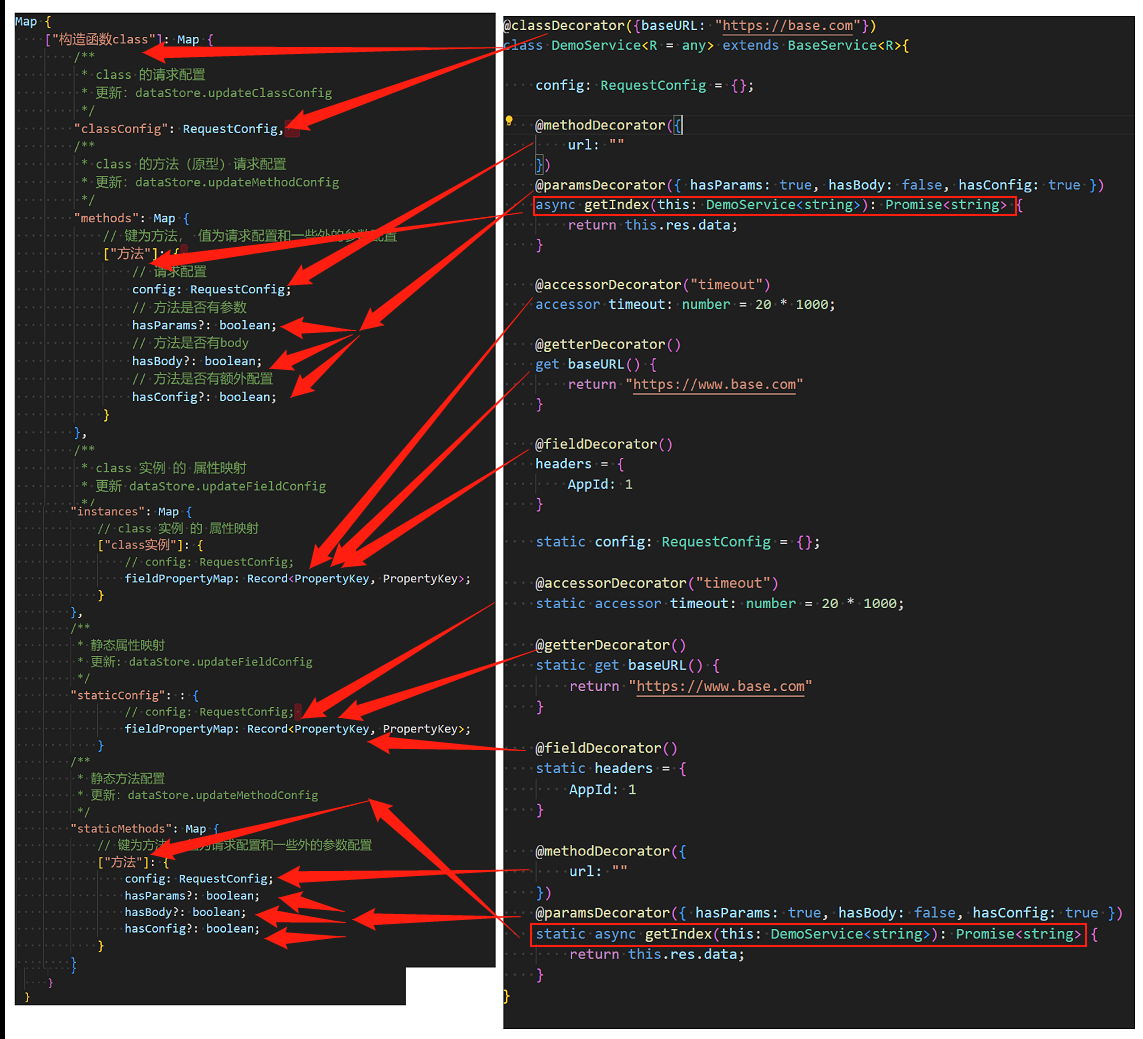
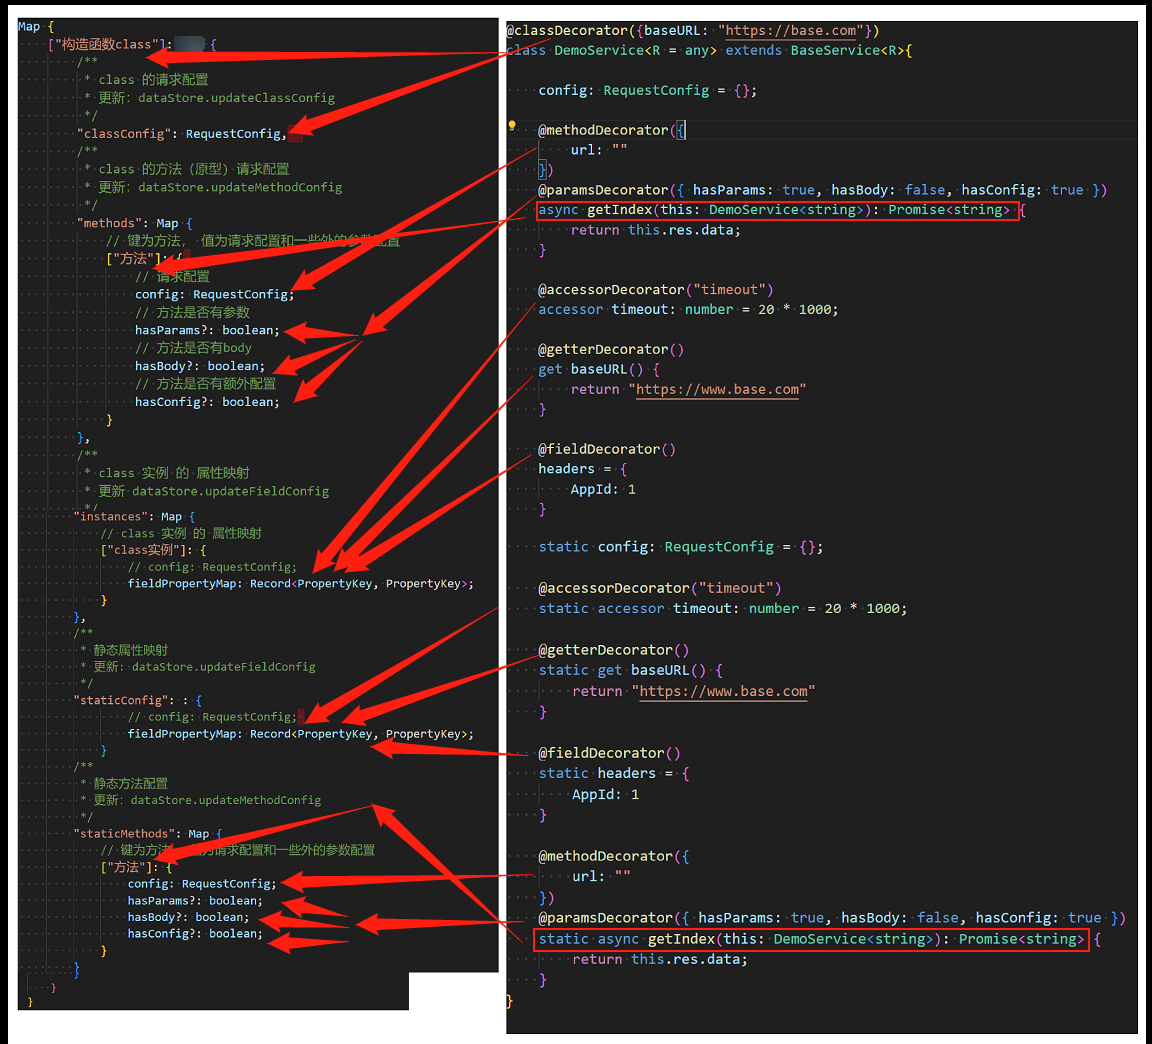
修改存储结构

Changed region(s): [[0.0, 0.0, 1.0, 1.0], [0.3368, 0.2772, 0.3675, 0.308]]

diff --git a/src/dataStore/index.ts b/src/dataStore/index.ts
@@ -1,15 +1,13 @@
-import { StorageMap, StorageMapValue } from "../types";
-import { Method, RequestConfig } from "../types";
+import { NOT_USE_BODY_METHODS } from "../const";
+import { merge } from "../lib/merge";
+import { Method, RequestConfig, StorageMap, StorageMapValue } from "../types";
 import {
     getProperty,
-    getOwnProperty,
     isAsyncFunction,
     isFunction,
-    isObject,
+    isObject
 } from "../util";
 import { hasPathParams, pathToUrl } from "../util/path";
-import { NOT_USE_BODY_METHODS, STORE_KEYS } from "../const";
-import { merge } from "../lib/merge";
 
 function shouldUseBody(method: Method) {
     if (method == null) {
@@ -44,7 +42,7 @@ export default class DataStore {
         // 方法上的config
         const methodConfig =
             ((isStatic ? rootConfig.staticMethods : rootConfig.methods) ||
-            new Map<Function, StorageMapValue.MethodConfigValue>()).get(method);
+                new Map<Function, StorageMapValue.MethodConfigValue>()).get(method) || {};
 
         // 实例或者class config 属性对应着的config
         const propertyConfig = getProperty(classOrInstance, "config", {}) || {};
@@ -230,15 +228,12 @@ export default class DataStore {
         config: Record<PropertyKey, PropertyKey>
     ) {
         const { storeMap } = this;
-        const instancesKey = STORE_KEYS.instances;
 
-        const val: StorageMapValue = storeMap.get(_class_) || new Map();
-        let instances: StorageMapValue.InstancesMap = val.get(
-            instancesKey
-        ) as StorageMapValue.InstancesMap;
+        const rootConfig: StorageMapValue | undefined = storeMap.get(_class_) || {};
+        let instances: StorageMapValue.InstancesMap | undefined = rootConfig.instances;
         if (!instances) {
-            instances = new Map();
-            val.set(instancesKey, instances);
+            instances = new Map<Object, StorageMapValue.CommonConfigValue>();
+            rootConfig.instances = instances;
         }
         let commonConfig: StorageMapValue.CommonConfigValue =
             instances.get(instance!) || {};
@@ -248,7 +243,7 @@ export default class DataStore {
             config,
         ]);
         instances.set(instance!, commonConfig);
-        storeMap.set(_class_, val);
+        storeMap.set(_class_, rootConfig);
     }
 
     /**
@@ -263,19 +258,17 @@ export default class DataStore {
         mapConfig: Record<PropertyKey, PropertyKey>
     ) {
         const { storeMap } = this;
-        const staticConfigKey = STORE_KEYS.staticConfig;
 
-        const val: StorageMapValue = storeMap.get(_class_) || new Map();
-        let commonConfig: StorageMapValue.CommonConfigValue =
-            (val.get(staticConfigKey) as StorageMapValue.CommonConfigValue) ||
+        const rootConfig: StorageMapValue = storeMap.get(_class_) || {};
+        let commonConfig: StorageMapValue.CommonConfigValue = rootConfig.staticConfig ||
             {};
 
         commonConfig.fieldPropertyMap = merge([
             commonConfig.fieldPropertyMap || {},
             mapConfig,
         ]);
-        val.set(staticConfigKey, commonConfig);
-        storeMap.set(_class_, val);
+        rootConfig.staticConfig = commonConfig;
+        storeMap.set(_class_, rootConfig);
     }
 
     /**
@@ -318,16 +311,13 @@ export default class DataStore {
         key: "methods" | "staticMethods"
     ) {
         const { storeMap } = this;
-        const val: StorageMapValue = storeMap.get(_class_) || new Map();
-        let methodsMapValue: StorageMapValue.MethodsMap = val.get(
-            key
-        ) as StorageMapValue.MethodsMap;
+        const val: StorageMapValue = storeMap.get(_class_) || {};
+        let methodsMapValue: StorageMapValue.MethodsMap | undefined = val[key];
         if (!methodsMapValue) {
             methodsMapValue = new Map();
-            val.set(key, methodsMapValue);
+            val[key] = methodsMapValue;
         }
-        let oldConfig: StorageMapValue.MethodConfigValue =
-            methodsMapValue.get(method) || {};
+        let oldConfig: StorageMapValue.MethodConfigValue = methodsMapValue.get(method) || {};
         oldConfig = merge([oldConfig, config]);
         methodsMapValue.set(method, oldConfig);
         storeMap.set(_class_, val);
@@ -340,8 +330,8 @@ export default class DataStore {
      */
     updateClassConfig(_class_: Function, config: StorageMapValue.ConfigValue) {
         const { storeMap } = this;
-        const val: StorageMapValue = storeMap.get(_class_) || new Map();
-        val.set(STORE_KEYS.classConfig, config);
+        const val: StorageMapValue = storeMap.get(_class_) || {};
+        val.classConfig = config;
         storeMap.set(_class_, val);
     }
 }

diff --git a/src/dataStore/statistics.ts b/src/dataStore/statistics.ts
@@ -28,9 +28,9 @@ const EMPTY_RESULT: StatisticsResult = {
 };
 
 export default class Statistics {
-    constructor(public storeMap: StorageMap) {}
+    constructor(public storeMap: StorageMap) { }
 
-    getStatistics (
+    getStatistics(
         classOrInstance: Function | Object | undefined | null = undefined
     ): StatisticsResult {
         if (isFunction(classOrInstance)) {
@@ -42,7 +42,7 @@ export default class Statistics {
             // @ts-ignore
             isFunction(classOrInstance.constructor)
         ) {
-             // @ts-ignore
+            // @ts-ignore
             return this.countSingleClass(classOrInstance.constructor);
         }
         if (classOrInstance === null || classOrInstance === undefined) {
@@ -76,19 +76,15 @@ export default class Statistics {
     }
 
     private countSingleClass(_class_: Function): StatisticsResult {
-        const sv = this.storeMap.get(_class_);
-        if (!sv) {
+        const rootConfig = this.storeMap.get(_class_);
+        if (!rootConfig) {
             return cloneJSON(EMPTY_RESULT);
         }
-        const methodsMap: StorageMapValue.MethodsMap = (sv.get("methods") ||
-            new Map()) as StorageMapValue.MethodsMap;
-        const staticMethodsMap: StorageMapValue.MethodsMap = (sv.get(
-            "staticMethods"
-        ) || new Map()) as StorageMapValue.MethodsMap;
+        const methodsMap: StorageMapValue.MethodsMap = rootConfig.methods || new Map<Function, StorageMapValue.MethodConfigValue>;
+        const staticMethodsMap: StorageMapValue.MethodsMap = rootConfig.staticMethods || new Map<Function, StorageMapValue.MethodConfigValue>();
 
         const methods = Array.from(methodsMap.keys());
         const staticMethods = Array.from(staticMethodsMap.keys());
-
         return {
             instanceMethods: this.countMethods(_class_, methods),
             staticMethods: this.countMethods(_class_, staticMethods),

diff --git a/src/const.ts b/src/const.ts
@@ -1,4 +1,4 @@
-import { StorageMapValue, StorageMapValueKey } from "./types";
+import { StorageMapValue } from "./types";
 import { Method, RequestConfig } from "./types/request";
 
 export const DEFAULT_CONFIG: RequestConfig = {
@@ -8,13 +8,6 @@ export const DEFAULT_CONFIG: RequestConfig = {
 
 export const storeMap = new Map<Function, StorageMapValue>();
 
-export const STORE_KEYS: Record<StorageMapValueKey, StorageMapValueKey> = {
-    "classConfig": "classConfig",
-    "instances": "instances",
-    "methods": "methods",
-    "staticConfig": "staticConfig",
-    "staticMethods": "staticMethods",
-}
 
 export const NOT_USE_BODY_METHODS: Method[] = ["get", "head", "GET", "HEAD"];
 

diff --git a/test/manual/accessor.ts b/test/manual/accessor.ts
@@ -8,7 +8,7 @@ class DemoService<R = any> extends BaseService<R>{
         url: "https://baidu.com"
     })
     async getIndex(this: DemoService<string>): Promise<string> {
-        console.log("this.something:", this.#someThing);
+        // console.log("this.something:", this.#someThing);
         return this.res.data;
     }
 

diff --git a/readme.md b/readme.md
@@ -215,6 +215,7 @@ npm install petal-service
 - [x] 统计
 - [x] setRequestInstance参数修改为函数，传入内置的创建实例的函数，配置，实例等
 - [x] dataStore存储关系图
+- [x] 调整存储结构
 - [ ] 下移mergeConfig,在调用中合并config，然后再发http请求，解决访问私有变量|属性？？？
 - [ ] 服务请求TypeScript提示问题
 - [ ] 编写文档
